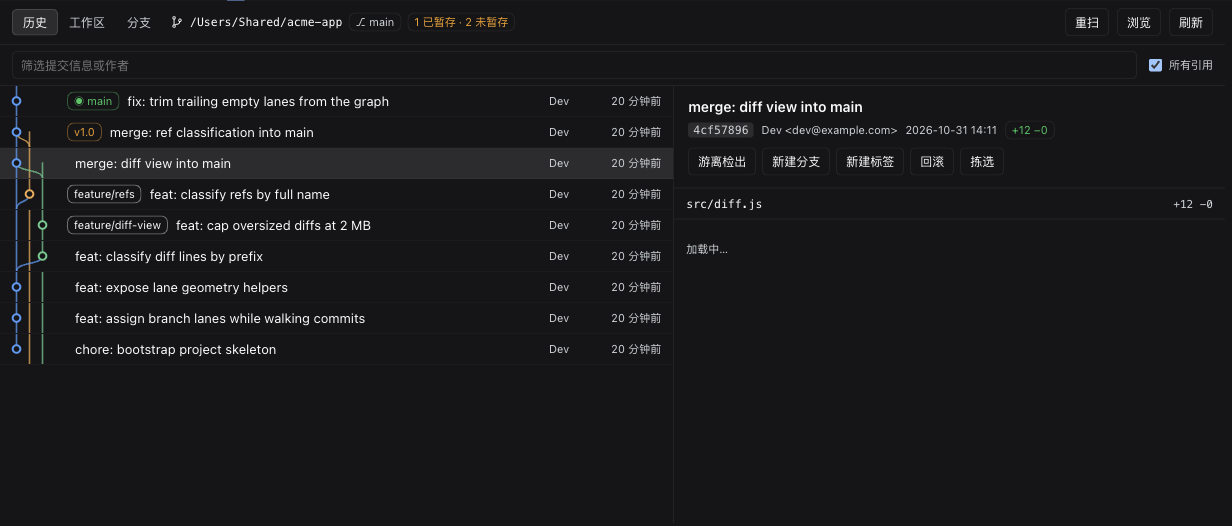
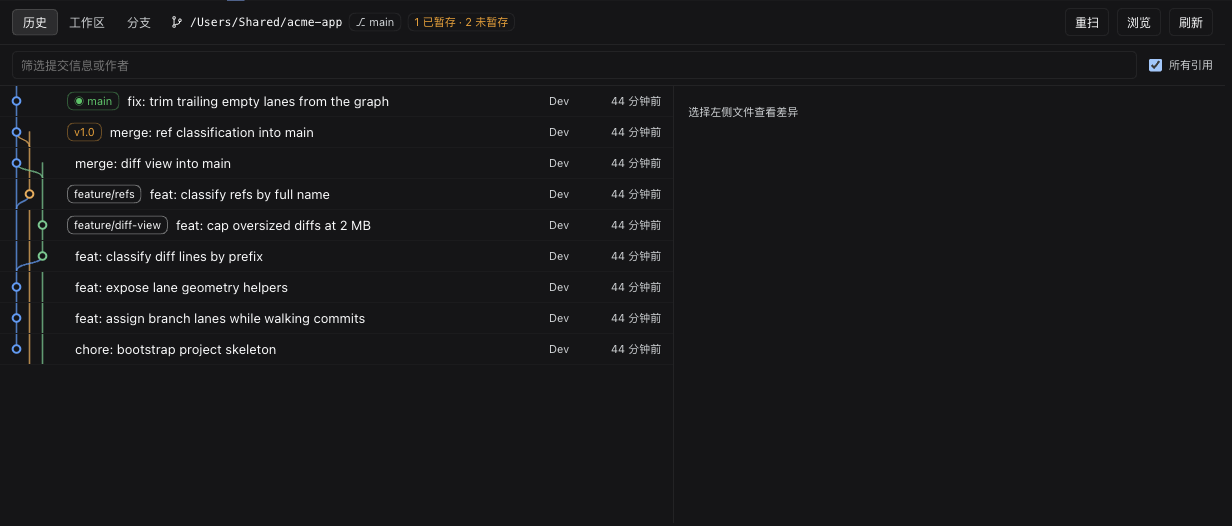
docs: document install-from-GitHub and refresh screenshots
Screenshots now show a neutral demo repository with the panel cropped, so the
README carries no local paths, session names or personal data.

diff --git a/README.md b/README.md
@@ -40,15 +40,26 @@ neither remembers what the other picked.
 
 ## Install
 
+`dsh plugin` forwards its arguments to pnpm inside the profile directory, so install from
+this repository:
+
 ```sh
-dsh plugin --profile <profile> add dsh-session-git
+dsh plugin --profile <profile> add github:koi128bit/dsh-session-git
 ```
 
-Or install straight from a checkout:
+Or from a local checkout:
 
 ```sh
-git clone <this repository>
-dsh plugin --profile <profile> add <path-to-checkout>
+git clone https://github.com/koi128bit/dsh-session-git
+dsh plugin --profile <profile> add ./dsh-session-git
+```
+
+There is also a prebuilt tarball attached to
+[Releases](https://github.com/koi128bit/dsh-session-git/releases/latest/download/dsh-session-git.tgz),
+which skips the build step:
+
+```sh
+dsh plugin --profile <profile> add https://github.com/koi128bit/dsh-session-git/releases/latest/download/dsh-session-git.tgz
 ```
 
 Reload the web UI and open any conversation: a **Git** tab appears in the conversation
